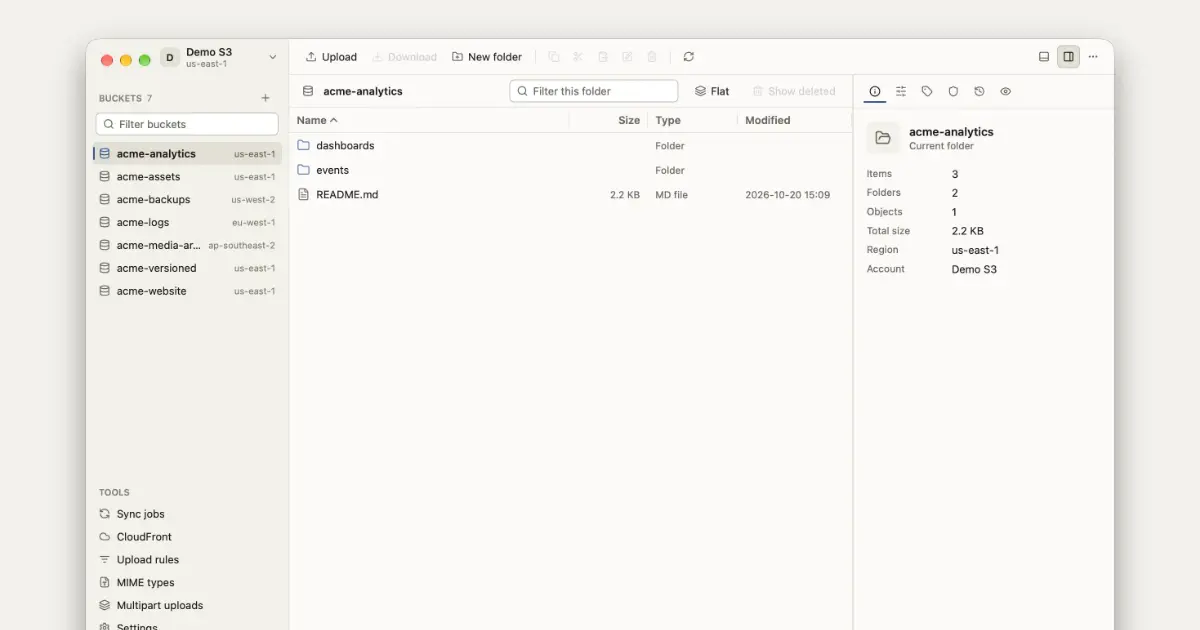
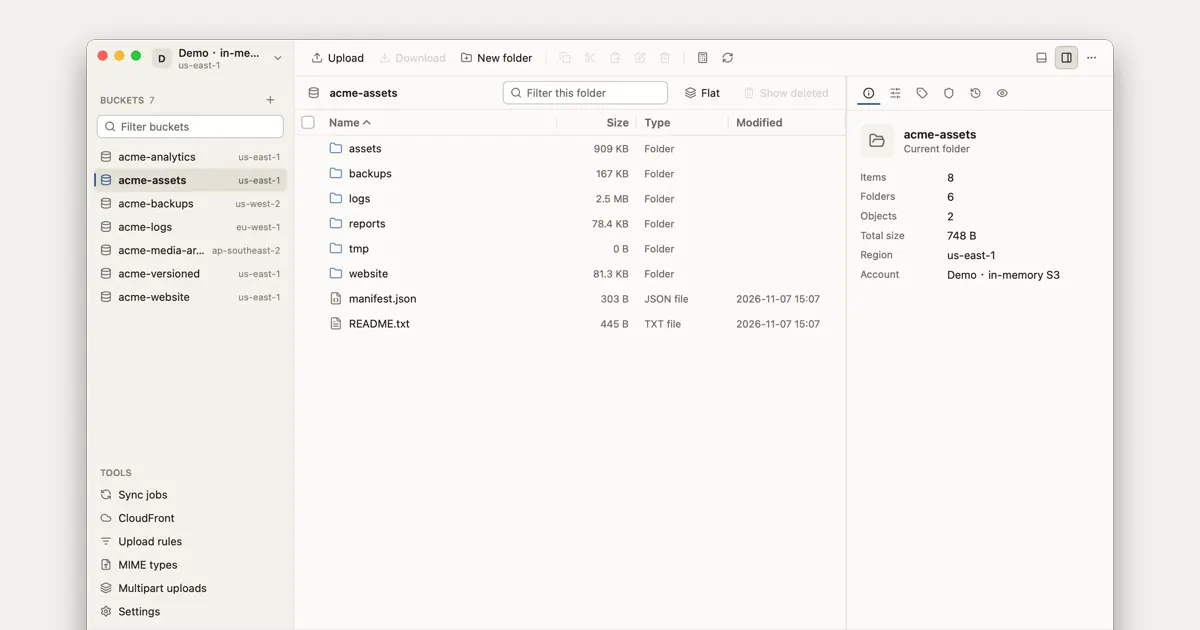
design(site): window screenshots per language and theme
The hero shows the owner's four native macOS captures (light and dark, English and Simplified Chinese) and the page picks the one for its language and theme. The Open Graph card is recomposed from the English light capture.

diff --git a/designs/pail-site/index.html b/designs/pail-site/index.html
@@ -110,8 +110,8 @@
       </div>
       <figure class="wrap hero-shot">
         <picture>
-          <source srcset="assets/main-dark.webp" media="(prefers-color-scheme: dark)" type="image/webp" data-shot-dark>
-          <img src="assets/main-light.webp" width="2742" height="1822" fetchpriority="high" decoding="async" data-i18n-alt="shotAlt" alt="The Pail main window: bucket list, object table and inspector">
+          <source srcset="assets/main-dark-en.webp" media="(prefers-color-scheme: dark)" type="image/webp" data-shot-dark data-shot="dark">
+          <img src="assets/main-light-en.webp" width="2684" height="1750" fetchpriority="high" data-shot="light" decoding="async" data-i18n-alt="shotAlt" alt="The Pail main window: bucket list, object table and inspector">
         </picture>
         <script>
           (function () {

diff --git a/designs/pail-site/app.js b/designs/pail-site/app.js
@@ -91,6 +91,12 @@
         if (key) el.setAttribute(attr, t(key));
       });
     });
+    // The window screenshots are in the page's language, light and dark.
+    var shotLang = root.getAttribute('data-lang') === 'zh' ? 'zh' : 'en';
+    $$('[data-shot]').forEach(function (el) {
+      var file = 'assets/main-' + el.getAttribute('data-shot') + '-' + shotLang + '.webp';
+      if (el.tagName === 'SOURCE') el.srcset = file; else el.src = file;
+    });
     var cta = $('[data-os-cta-label]');
     if (cta) cta.textContent = OS ? t('heroDownloadFor', { os: OS_NAMES[OS] }) : t('heroDownload');
   }

diff --git a/designs/pail-site/social-preview.html b/designs/pail-site/social-preview.html
@@ -23,6 +23,6 @@
   </style>
 </head>
 <body>
-  <img src="assets/main-light.webp" width="2742" height="1822" alt="The Pail main window: bucket list, object table and inspector">
+  <img src="assets/main-light-en.webp" width="2684" height="1750" alt="The Pail main window: bucket list, object table and inspector">
 </body>
 </html>
